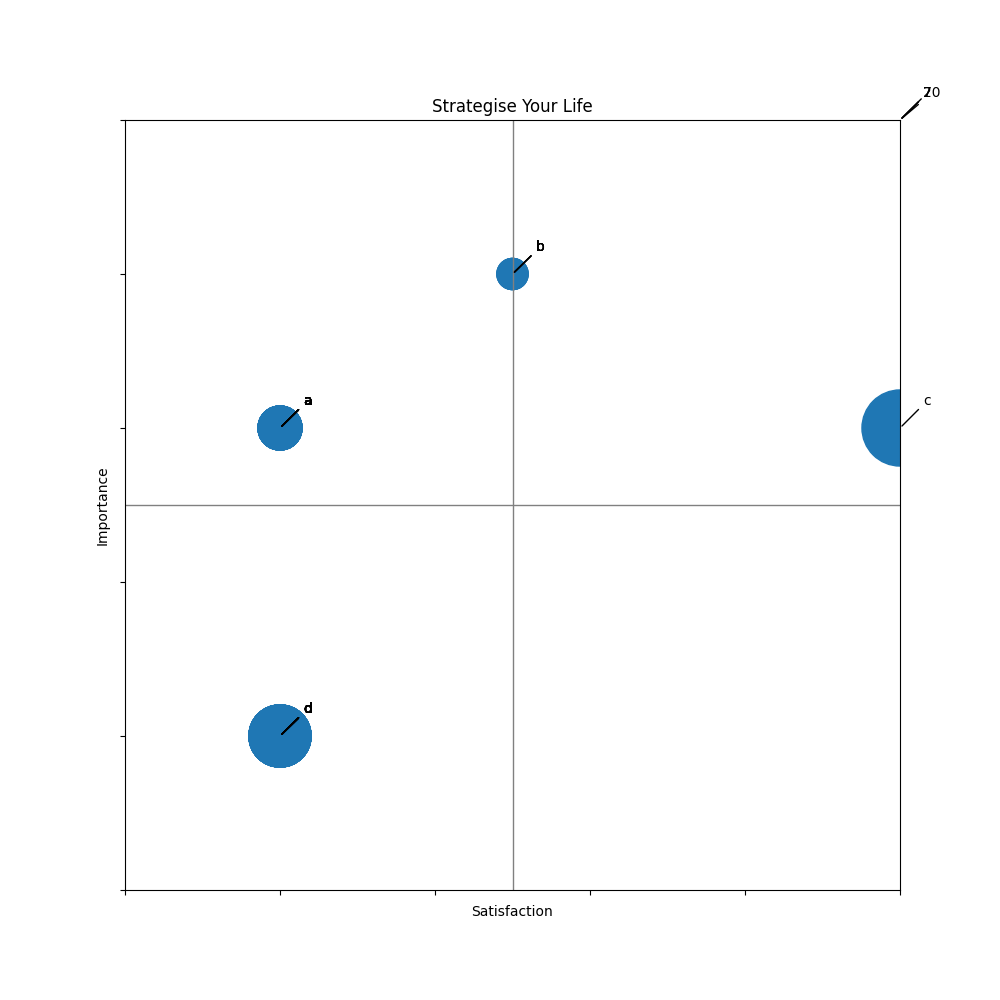
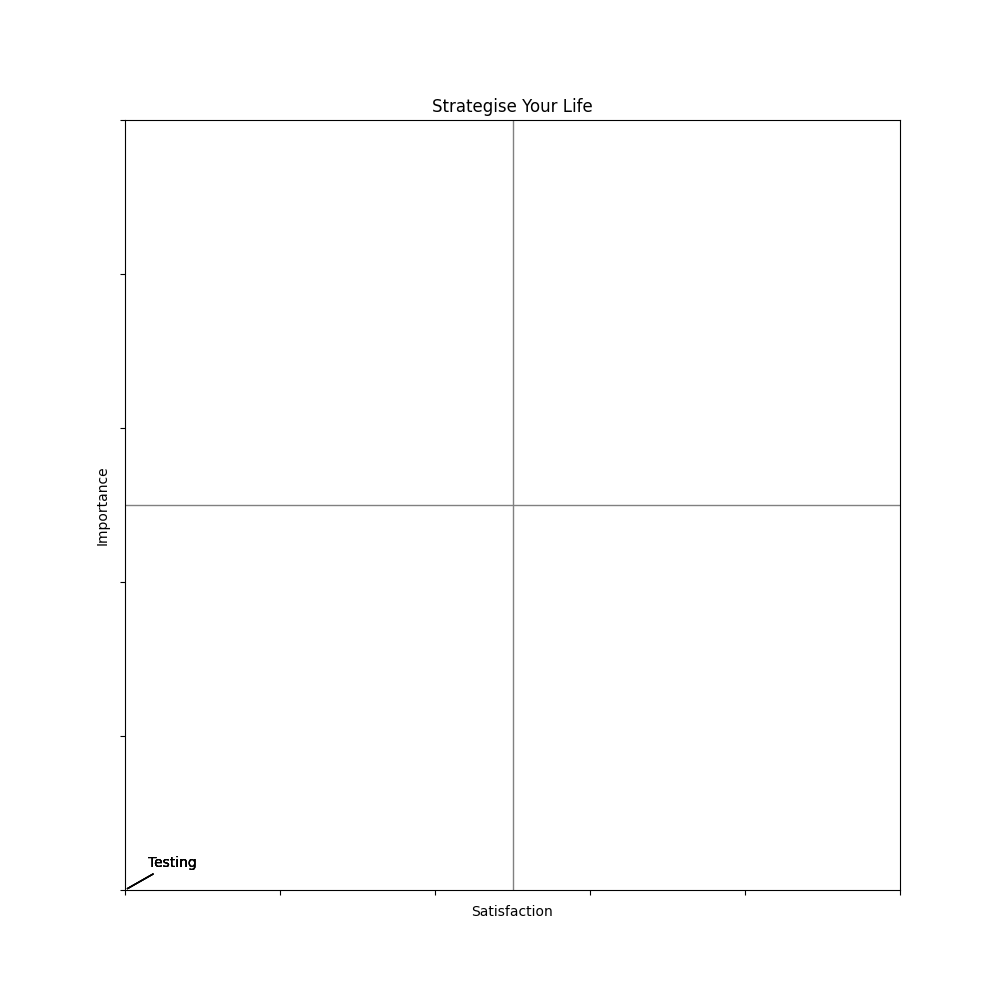
Check if the db is empty and creates starting data

diff --git a/website/templates/home.html b/website/templates/home.html
@@ -5,9 +5,9 @@
 <form method="POST">
   <h3 align="center">table for capturing all the user data</h3>
   {{ form.csrf_token }}
-  {{ form.opts }}
+  {{ form.strategicLifeUnits }}
   <ul>
-    {% for error in form.opts.errors %}
+    {% for error in form.strategicLifeUnits.errors %}
     <li>{{ error }}</li>
     {% endfor %}
   </ul>

diff --git a/website/views.py b/website/views.py
@@ -1,7 +1,10 @@
+import sqlite3
 from flask import Blueprint, render_template, request
+import pandas as pd
 from website.form import SimpleForm
+from website.models import StrategiseYourLife
+from website.starting_data import CreateData
 from website.visuals import CreateVisual
-from .models import StrategiseYourLife
 from . import db
 
 views = Blueprint('views', __name__)
@@ -10,8 +13,17 @@ views = Blueprint('views', __name__)
 def home():
   form = SimpleForm()
 
+  #connects to the database
+  conn = sqlite3.connect('instance/database.db')
+  df = pd.read_sql('SELECT * FROM strategise_your_life', conn)
+
+  #check to see if the database is empty
+  if len(df) == 0:
+    #runs the function to create the starting data
+    CreateData()
+
   if request.method == 'POST':
-    strageticLifeUnit = request.form.get('opts')
+    strageticLifeUnit = request.form.get('strategicLifeUnits')
     satisfaction = request.form.get('satisfaction')
     importance = request.form.get('importance')
     timeInvested = request.form.get('timeinvested')
@@ -22,13 +34,12 @@ def home():
       print('missing importance data')
     elif timeInvested == "":
       print('missing time invested data')
-    else:
-      newStrategiseYourLife = StrategiseYourLife(strategicLifeUnits=strageticLifeUnit, satisfaction=satisfaction, importance=importance, timeInvested=timeInvested)
-      db.session.add(newStrategiseYourLife)
-      db.session.commit()
+    #else:
+      #newStrategiseYourLife = StrategiseYourLife(strategicLifeUnits=strageticLifeUnit, satisfaction=satisfaction, importance=importance, timeInvested=timeInvested)
+      #db.session.add(newStrategiseYourLife)
+      #db.session.commit()
       
       #run the python visual code here
-      print('data saved')
-      CreateVisual()
+      #CreateVisual()
 
   return render_template("home.html", form=form)

diff --git a/website/starting_data.py b/website/starting_data.py
@@ -1,0 +1,32 @@
+from website.models import StrategiseYourLife
+from . import db
+
+def CreateData():
+  area = [
+    ['Significant Other',	'Relationships'],
+    ['Family',	'Relationships'],
+    ['Friends',	'Relationships'],
+    ['Physical Health/sports',	'Body mind and spirituality'],
+    ['Mental Health/mindfulness',	'Body mind and spirituality'],
+    ['Spirituality/faith',	'Body mind and spirituality'],
+    ['Community/citizenship',	'Community and society'],
+    ['Societal engagement',	'Community and society'],
+    ['Job/career',	'Job learning and finances'],
+    ['Education/learning',	'Job learning and finances'],
+    ['Finances',	'Job learning and finances'],
+    ['Hobbies/interests',	'Interests and entertainment'],
+    ['Online entertainment',	'Interests and entertainment'],
+    ['Offline entertainment',	'Interests and entertainment'],
+    ['Physiological needs',	'Personal care'],
+    ['Activities of daily living',	'Personal care'],
+]
+
+  # Iterate over the 2x16 area, considering elements grouped in pairs
+  for row in area:
+      for i in range(0, len(row), 2):
+          pair = row[i:i+2]
+          print(pair[1])
+
+          sampleData = StrategiseYourLife(strategicLifeUnits=pair[0], strategicLifeAreas=pair[1], satisfaction=0, importance=0, timeInvested=0)
+          db.session.add(sampleData)
+          db.session.commit()

diff --git a/website/form.py b/website/form.py
@@ -1,5 +1,5 @@
 from flask_wtf import FlaskForm
-from wtforms import StringField, SubmitField, SelectField, IntegerField
+from wtforms import IntegerField
 from wtforms_sqlalchemy.fields import QuerySelectField
 from website.models import StrategiseYourLife
 
@@ -7,7 +7,7 @@ def form_query():
   return StrategiseYourLife.query
 
 class SimpleForm(FlaskForm):
-  opts = QuerySelectField(query_factory=form_query, allow_blank=True, get_label='strategicLifeUnits')
+  strategicLifeUnits = QuerySelectField(query_factory=form_query, allow_blank=True, get_label='strategicLifeUnits')
   satisfaction = IntegerField("Satisfaction")
   importance = IntegerField("Importance")
   timeInvested = IntegerField("Time Invested")

diff --git a/website/__init__.py b/website/__init__.py
@@ -1,6 +1,5 @@
 from flask import Flask
 from flask_sqlalchemy import SQLAlchemy
-from os import path
 
 db = SQLAlchemy()
 DB_NAME = "database.db"
@@ -14,8 +13,6 @@ def create_app():
   from .views import views
 
   app.register_blueprint(views, url_prefix='/')
-
-  from .models import StrategiseYourLife
 
   with app.app_context():
     db.create_all()

diff --git a/website/models.py b/website/models.py
@@ -3,6 +3,7 @@ from . import db
 class StrategiseYourLife(db.Model):
   id = db.Column(db.Integer, primary_key=True)
   strategicLifeUnits = db.Column(db.String(100))
+  strategicLifeAreas = db.Column(db.String(100))
   satisfaction = db.Column(db.Integer)
   importance = db.Column(db.Integer)
   timeInvested = db.Column(db.Integer)
